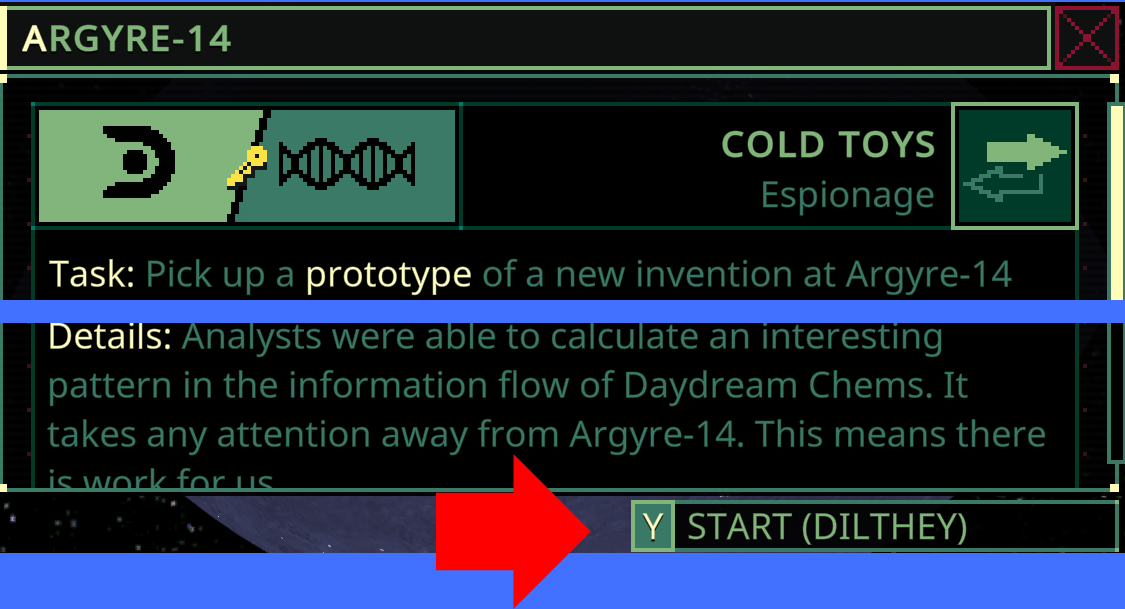
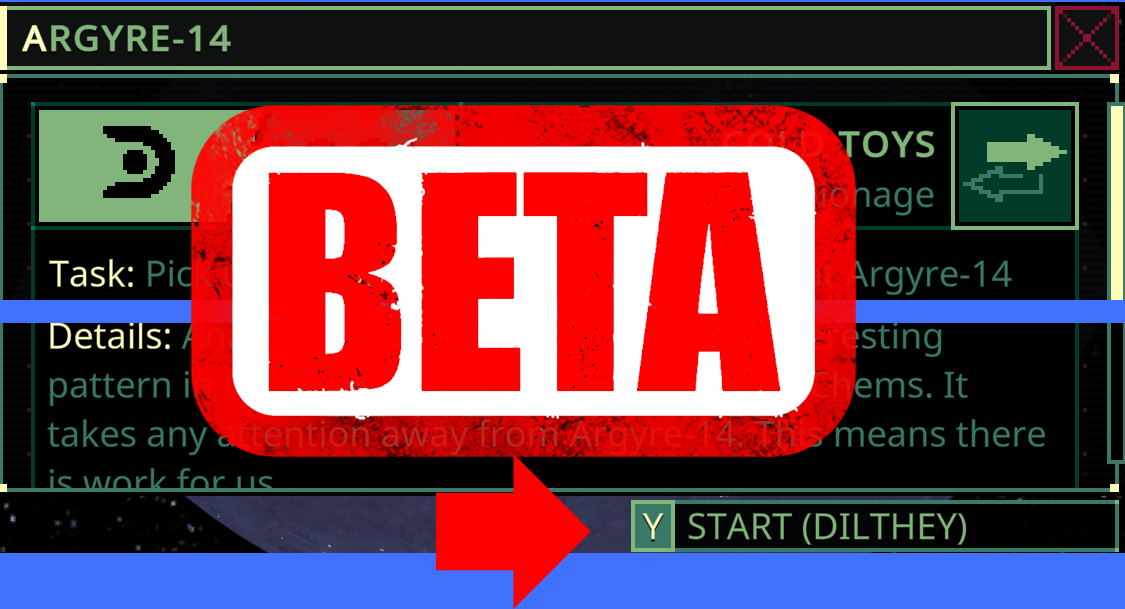
Compatible with the 0.8.6 opt in beta

diff --git a/src/Plugin.cs b/src/Plugin.cs
@@ -25,14 +25,12 @@ namespace QM_RaidShowAlly
 
             HarmonyMethod patchMethod = new HarmonyMethod(AccessTools.Method(typeof(Plugin), nameof(Plugin.SetStartButtonText)));
 
-            harmony.Patch(AccessTools.Method(typeof(PrepareRaidScreen), nameof(PrepareRaidScreen.Show),
+            harmony.Patch(AccessTools.Method(typeof(PrepareRaidScreen), nameof(PrepareRaidScreen.Configure),
                 new Type[] { typeof(Mission), typeof(bool) }),  
                 postfix: patchMethod);
 
-            harmony.Patch(AccessTools.Method(typeof(PrepareRaidScreen), nameof(PrepareRaidScreen.SwapSideToDefenseButtonOnClick)),
-                postfix: patchMethod);
-
-            harmony.Patch(AccessTools.Method(typeof(PrepareRaidScreen), nameof(PrepareRaidScreen.SwapSideToAttackButtonOnClick)),
+            harmony.Patch(AccessTools.Method(typeof(PrepareRaidScreen), nameof(PrepareRaidScreen.Configure),
+                new Type[] { typeof(Station) }),
                 postfix: patchMethod);
         }
 
@@ -41,7 +39,7 @@ namespace QM_RaidShowAlly
             if (__instance?._mission?.IsStoryMission ?? true) return;
 
             string ally = Localization.Get("faction." + __instance._mission.BeneficiaryFactionId + ".name");
-            __instance._startOperationButtonCaption.text = $"Start ({ally})";
+            __instance._startOperationButton.ChangeLabel($"Start ({ally})");
         }
 
 

diff --git a/src/Properties/AssemblyInfo.cs b/src/Properties/AssemblyInfo.cs
@@ -32,5 +32,5 @@ using System.Runtime.InteropServices;
 // You can specify all the values or you can default the Build and Revision Numbers
 // by using the '*' as shown below:
 // [assembly: AssemblyVersion("1.0.*")]
-[assembly: AssemblyVersion("1.0.0.0")]
-[assembly: AssemblyFileVersion("1.0.0.0")]
+[assembly: AssemblyVersion("1.1.0")]
+

diff --git a/README.md b/README.md
@@ -2,6 +2,19 @@
 
 ![thumbnail icon](media/thumbnail.png)
 
+# Important - This version of the mod is only for the opt in beta version of the game!
+
+This is a temporary version that supports the 0.8.6 beta, and not the current game's version.
+For the non beta version of the game, use the mod of the same name without the BETA suffix.
+
+The non beta version *must* be uninstalled.  
+When the 0.8.6 becomes the main version, this mod will be deleted.
+Note that the beta is expected to change many times before release.
+As such, this mod may break on each beta release.
+
+# Docs
+
+
 Changes the mission start button to include the faction that the player is raiding for.
 
 With the new reverse mission functionality, this is a quick check that the player is choosing the desired side.  Especially useful when the player exits the raid dialog and returns.
@@ -13,3 +26,8 @@ Thanks!
 
 # Source Code
 Source code is available on GitHub at https://github.com/NBKRedSpy/QM_RaidShowAlly
+
+# Change Log
+
+## 1.1.0
+* Compatible with the 0.8.6 opt in beta 
